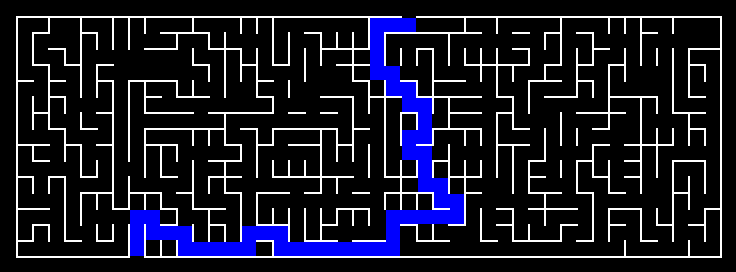
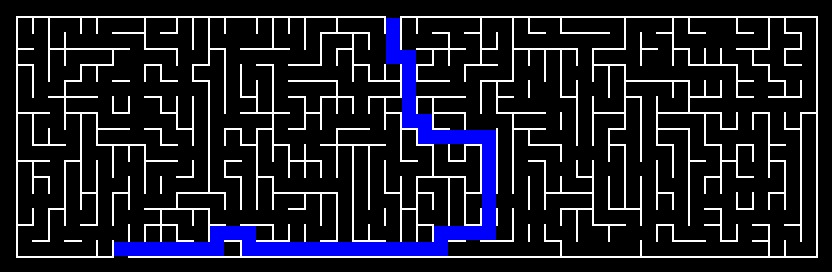
Still GUI v2

Changed region(s): [[0.0, 0.0588, 1.0, 0.9706]]

diff --git a/src/main/java/com/javamaze/maze/ShowMaze.java b/src/main/java/com/javamaze/maze/ShowMaze.java
@@ -19,23 +19,25 @@ public class ShowMaze extends javax.swing.JPanel implements ComponentListener {
     private Dimension newSize;
     private File imageFile = new File("MazeResolved.png");
     private int inset;//size of top title panel
-    private int x1=-1, x2=-1, y1=-1, y2=-1;
+    private double x1=-1, x2=-1, y1=-1, y2=-1;
     private int[][] maze;
-    private int size;//size of image
+    private double scale;//scale for fitting image
 
     @Override public void componentHidden(ComponentEvent e) {}
     @Override public void componentMoved(ComponentEvent e) {}
     @Override public void componentShown(ComponentEvent e) {}
     @Override public void componentResized(ComponentEvent e) {
         newSize = e.getComponent().getBounds().getSize();
-        //resize showed image from imageOriginal
-        if (newSize.getHeight() < newSize.getWidth()) {
-            size = (int) newSize.getHeight() - inset;
-        } else {
-            size = (int) newSize.getWidth();
-        }
-        image = imageOriginal.getScaledInstance(size, size, Image.SCALE_DEFAULT);
-        //TODO: LEPSZE SKALOWANIE, skalowanie po kliknięciu
+        //-200 is a offset for buttons etc.
+        double size2=(newSize.getWidth()-200)/imageOriginal.getWidth(this);
+        double size3=(newSize.getHeight() - inset)/imageOriginal.getHeight(this);
+        if (size2<size3)
+            scale=size2;
+        else scale=size3; 
+        //scaled dimensions of image
+        double sc1 = scale*imageOriginal.getWidth(this);
+        double sc2 = scale*imageOriginal.getHeight(this);
+        image = imageOriginal.getScaledInstance((int) sc1,(int) sc2, Image.SCALE_DEFAULT);
     }
 
     private int ScaleCoords(int num) {
@@ -58,24 +60,19 @@ public class ShowMaze extends javax.swing.JPanel implements ComponentListener {
                 @Override
                 public void mousePressed(MouseEvent e) {
                     if(x1<0) {
-                        x1=e.getX();
-                        y1=e.getY();
+                        x1=e.getX()*scale/16;
+                        y1=e.getY()*scale/16;
                     } else if(x2<0) {
-                        x2=e.getX();
-                        y2=e.getY();
-                        //wywolac
+                        x2=e.getX()*scale/16;
+                        y2=e.getY()*scale/16;
+                        System.out.println((int)x1 + " "+(int)y1 + " "+(int)x2 + " "+(int)y2);
                         MazeSolver solve = new MazeSolver();
-                        solve.SolveMaze(maze,x1,y1,x2,y2);
+                        solve.SolveMaze(maze,(int)x1,(int)y1,(int)x2,(int)y2);
                         //init again values with -1
                         x1=x2=y1=y2=-1;
                     }
-                    int x=e.getX();
-                    int y=e.getY();
-                    
-                    System.out.println(x+","+y);//these co-ords are relative to the component
                 }
-            });
-        
+            });      
     }
     //show image
     @Override

diff --git a/src/main/java/com/javamaze/maze/Menu.java b/src/main/java/com/javamaze/maze/Menu.java
@@ -45,7 +45,7 @@ public class Menu extends javax.swing.JFrame {
 
         setDefaultCloseOperation(javax.swing.WindowConstants.EXIT_ON_CLOSE);
 
-        widthField.setText("20");
+        widthField.setText("50");
         widthField.setToolTipText("");
         widthField.addActionListener(new java.awt.event.ActionListener() {
             public void actionPerformed(java.awt.event.ActionEvent evt) {

diff --git a/src/main/java/com/javamaze/maze/MazeSolver.java b/src/main/java/com/javamaze/maze/MazeSolver.java
@@ -220,7 +220,7 @@ public class MazeSolver {
             }
         }
         if (mind != 0) {
-            System.out.print("Dlugosc najkrotszej drogi: " + (mind + 1));
+            System.out.print("Length of the shortest path: " + (mind + 1));
         } else {
             System.out.print("Nie znaleziono sciezki!");
         }
